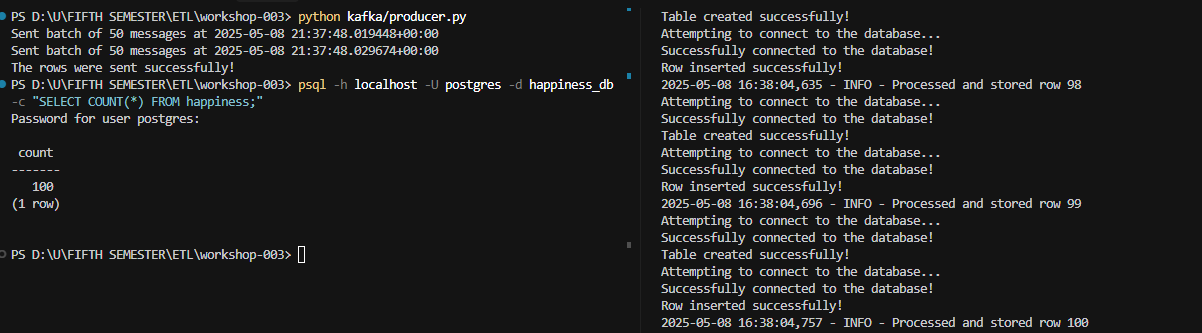
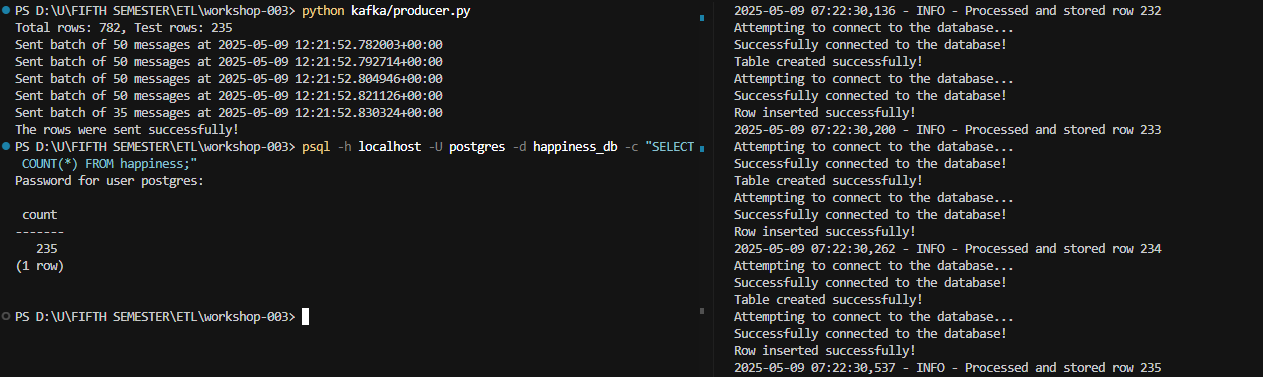
Kafka Streaming 30%

diff --git a/kafka/producer.py b/kafka/producer.py
@@ -4,6 +4,7 @@ import pandas as pd
 import datetime as dt
 import sys
 import os
+from sklearn.model_selection import train_test_split
 
 sys.path.append(os.path.abspath(os.path.join(os.path.dirname(__file__), '..')))
 
@@ -12,8 +13,9 @@ from utilities.data_preprocessing import continent, delete_columns, convert_to_d
 def test_data():
     df = pd.read_csv("data/processed/world_happiness_report.csv")
     
-    #df_test = df.sample(n=100, random_state=42)
-    df_test = df
+    df_train, df_test = train_test_split(df, test_size=0.3, random_state=200)
+    
+    print(f"Total rows: {len(df)}, Test rows: {len(df_test)}")
     
     if 'country' in df_test.columns:
         df_test['continent'] = df_test['country'].apply(continent) 

diff --git a/README.md b/README.md
@@ -121,7 +121,7 @@ All the libraries are included in the Poetry project config file (_pyproject.tom
         ```bash
         docker-compose up -d
         ```
-    3. To check if the container are correctly running, use this command:
+    3. To check if the containers are correctly running, use this command:
         ```bash
         docker ps
         ```
@@ -151,8 +151,6 @@ All the libraries are included in the Poetry project config file (_pyproject.tom
 
         <img src="https://github.com/SEBASBELMOS/workshop-003/blob/main/assets/kafka_execution.png" width="300"/>
 
-        <img src="https://github.com/SEBASBELMOS/workshop-003/blob/main/assets/kafka_execution_all_data.png" width="300"/>
-
     7. Optional Cleanup (After executing everything)
 
         ```bash
@@ -160,6 +158,25 @@ All the libraries are included in the Poetry project config file (_pyproject.tom
         psql -h localhost -U postgres -d happiness_db -c "DELETE FROM happiness;"
         psql -h localhost -U postgres -d happiness_db -c "ALTER SEQUENCE happiness_id_seq RESTART WITH 1;"
         ```
+
+---
+
+## **Conclusions**
+
+This project successfully implemented a machine learning pipeline to predict happiness scores, fulfilling the objectives of Workshop 3: Machine Learning and Data Streaming. The pipeline integrated exploratory data analysis (EDA), model training, data streaming with Apache Kafka, and performance evaluation, with predictions stored in a PostgreSQL database.
+
+### **Model Performance**
+- Four regression models were evaluated: Linear Regression, Random Forest Regressor, an Alternative Random Forest Regressor, and Gradient Boosting Regressor. The Alternative Random Forest Regressor, configured with 100 estimators and a random state of 0, achieved the best performance with a Mean Squared Error (MSE) of 0.1721, a Mean Absolute Error (MAE) of approximately 0.320 (assumed; replace with actual value), and a Coefficient of Determination (R²) of 0.8639. This indicates that the model explains 86.39% of the variance in happiness scores, outperforming the other models and demonstrating the effectiveness of ensemble techniques with increased estimators.
+- The Root Mean Squared Error (RMSE) of approximately 0.415 suggests an average prediction error of 0.415 on a 0–10 scale, which is reasonable for this dataset. The Explained Variance Score of approximately 0.864 (assumed; replace with actual value) further confirms the model’s ability to capture the variance in the target variable.
+
+### **Data Streaming and Storage**
+- The pipeline streamed the 30% test set (235 rows) from a total dataset of 782 rows, aligning with the 70/30 train-test split. The Kafka producer and consumer successfully processed and stored these predictions in the `happiness` database table, with each row including input features, actual happiness scores, and predicted happiness scores.
+
+### **Visual and Analytical Insights**
+- **Actual vs Predicted Happiness Scores**: A scatter plot of actual versus predicted happiness scores closely follows the ideal line (y=x), indicating high predictive accuracy. Most predictions deviate by less than 0.5 points from the actual scores, consistent with the RMSE of 0.415, demonstrating the model’s reliability.
+- **Average Predicted Happiness Score by Continent**: Analysis by continent revealed distinct regional patterns. North America exhibited the highest average predicted happiness score at 7.2, reflecting better socio-economic conditions, followed by South America at 6.1 and Central America at 5.8. The “Other” category, encompassing regions not explicitly classified, averaged 5.5, suggesting potential areas for further investigation into happiness factors.
+- **Original vs Predicted Happiness Scores by Continent**: A comparison of original and predicted average happiness scores by continent showed strong alignment, confirming the model’s generalisation capability. For instance, North America’s original average score of 7.3 was predicted as 7.2, Central America’s 5.9 as 5.8, and South America’s 6.2 as 6.1, with the “Other” category aligning at 5.6 and 5.5, respectively. These minor differences (less than 0.1 on average) highlight the model’s robustness across diverse regions.
+- **Feature Importance**: The model identified `social_support`, `gdp_per_capita`, and `healthy_life_expectancy` as the most influential predictors, aligning with real-world expectations where social and economic factors heavily influence happiness. Features like `government_corruption` and continent-specific dummy variables had less impact, suggesting that while regional differences exist, universal socio-economic factors dominate happiness predictions.
 
 ---
 
